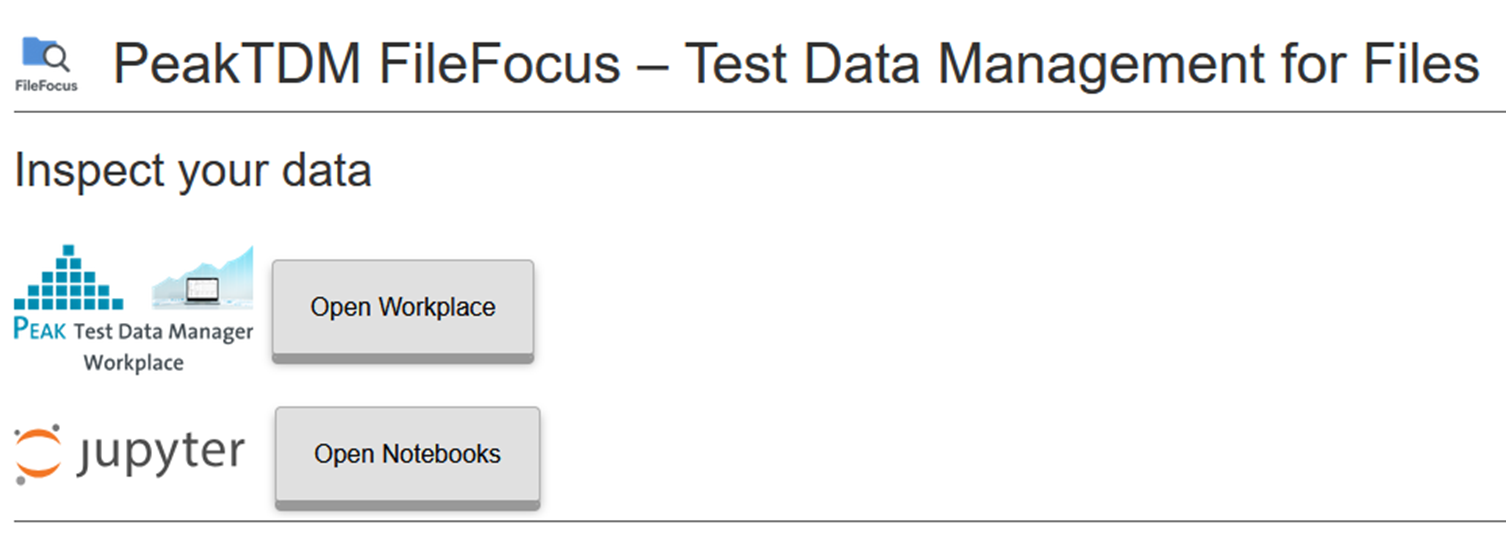
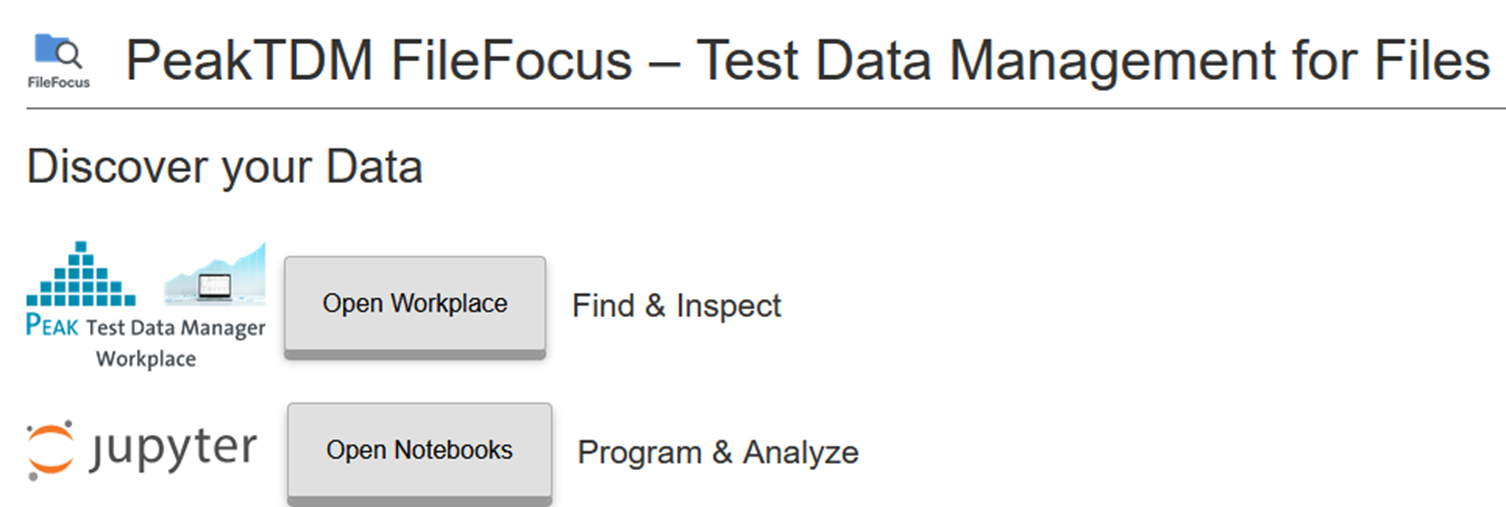
polish as of steak holder presentation

diff --git a/README.md b/README.md
@@ -8,11 +8,11 @@ Peak Test Data Manager (PeakTDM) **FileFocus** is the fastest way to transform y
 
 ## Quick Start Guide
 
-The guide helps you get started with _PeakTDM FileFocus_. 
+The guide helps you get started with *PeakTDM FileFocus*.
 
 ### Requirements
 
-_PeakTDM FileFocus_ is delivered as a Docker container and requires a working Docker runtime. 
+*PeakTDM FileFocus* is delivered as a Docker container and requires a working Docker runtime.
 On Windows, install Docker Desktop[^1].
 
 Log in to the Peak Solution Docker Image Repository[^2]:
@@ -23,9 +23,9 @@ docker login https://docker.peak-solution.de
 
 ℹ If Docker containers cannot be used in your organization, please [contact Peak Solution](https://www.peak-solution.de/contact.html) for alternatives.
 
-### Install and Start _PeakTDM FileFocus_
+### Install and Start *PeakTDM FileFocus*
 
-Clone or [download](https://github.com/peak-solution/filefocus/archive/refs/heads/main.zip) this repository. 
+Clone or [download](https://github.com/peak-solution/filefocus/archive/refs/heads/main.zip) this repository.
 If downloaded as a ZIP, extract the archive to a local folder.
 
 Open a terminal(cmd) and navigate to the repository folder and start the FileFocus environment:
@@ -34,17 +34,17 @@ Open a terminal(cmd) and navigate to the repository folder and start the FileFoc
 docker compose up -d
 ```
 
-Your _PeakTDM FileFocus_ instance is now up and running.
+Your *PeakTDM FileFocus* instance is now up and running.
 
 ## Usage and Examples
 
 ### Verify the installation
 
-By default _PeakTDM FileFocus_ runs on port 15000. 
+By default *PeakTDM FileFocus* runs on port 15000.
 
-Open: 
+Copy the following URL into your browser to access the *PeakTDM FileFocus* Web UI:
 
-👉 [http://localhost:15000](http://localhost:15000)
+👉 http://localhost:15000
 
 <img src="docs/images/FileFocus_Web_UI.png" alt="FileFocus WebUI" height="250" />
 
@@ -60,38 +60,42 @@ Add some **example files**:
 docker compose --profile examples up example-data
 docker compose --profile examples down example-data
 ```
+
 or copy your own data files to the `./datafolder` in your installation directory.
 
-### Configure _PeakTDM FileFocus_
+### Configure *PeakTDM FileFocus*
 
 Copy the `.env.example` file to `.env`, open it in a text editor and adjust the values according to your setup.
 
-Set the `DATAFOLDER` variable to the absolute path of your data files to index your specific file location. To apply the configuration settings, **restart** the PeakTDM FileFocus environment by executing the following commands:
+Set the `DATAFOLDER` variable to the absolute path of your data files to index your specific file location. To apply the configuration settings, **restart** the *PeakTDM FileFocus* environment by executing the following commands:
+
 ``` bash
 docker compose down -v
 ```
+
 and then
+
 ``` bash
 docker compose up -d
 ```
+
 ⚠ Note: Docker on Windows cannot use UNC paths directly - you need to use the cifs driver for network shares. See `.env.example` file for examples.
 
-### Import Your Own Data Files ###
+### Import Your Own Data Files
 
-_PeakTDM FileFocus_ can deal with almost any measurement file format. In case your file format is not supported yet, you can develop your own **ExD data plugin**.
+*PeakTDM FileFocus* can deal with almost any measurement file format. In case your file format is not supported yet, you can develop your own **ExD data plugin**.
 
 👉 Visit the [Data Management Learning Path](https://peak-solution.github.io/data_management_learning_path/exd_api/overview.html) for instructions and examples or [contact Peak Solution](https://www.peak-solution.de/contact.html).
 
 ### Python API
 
-Access your data programmatically via Python using [Peak ASAM ODSBox](https://peak-solution.github.io/odsbox/) - a thin wrapper around the _PeakTDM FileFocus_ HTTP(S)-APIs.
+Access your data programmatically via Python using [Peak ASAM ODSBox](https://peak-solution.github.io/odsbox/) - a thin wrapper around the *PeakTDM FileFocus* HTTP(S)-APIs.
 
-👉 Find more Python examples in the [Data Management Learning Path](https://peak-solution.github.io/data_management_learning_path/.) 
-
+👉 Find more Python examples in the [Data Management Learning Path](https://peak-solution.github.io/data_management_learning_path/.)
 
 ## Licensing
 
-Running _PeakTDM FileFocus_ requires a valid license issued by Peak Solution. 
+Running *PeakTDM FileFocus* requires a valid license issued by Peak Solution.
 
 Copy your license file into the `.\license` folder of your installation.
 
@@ -99,24 +103,25 @@ Need an **evaluation license**:
 
 👉 [Contact Peak Solution](https://www.peak-solution.de/contact.html).
 
-
 ## Roadmap
 
 As the fastest way to turn test & measurement files into AI‑ready data,
-we are actively exploring the use of PeakTDM data with **agentic AI frameworks**. 
+we are actively exploring the use of PeakTDM data with **agentic AI frameworks**.
 
 👉 [Read the blog](https://www.peak-solution.de/testdatamanagement/test-and-measurement-data-management-in-the-age-of-ai.html#a12690) or [contact Peak Solution](https://www.peak-solution.de/contact.html) to learn how your data can be used with Github Copilot and other agentic tools.
 
 ## Contact
 
-For questions about _PeakTDM FileFocus_ or other Peak Solution products feel free to 
+For questions about *PeakTDM FileFocus* or other Peak Solution products feel free to
 
-👉 [Reach out to Peak Solution](https://www.peak-solution.de/contact.html) 
+👉 [Reach out to Peak Solution](https://www.peak-solution.de/contact.html)
 
+Explore the *PeakTDM FileFocus* website for more information:
+
+👉 [PeakTDM FileFocus](https://www.peak-solution.de/products/testdatamanagement/filefocus.html)
 
 ## Footnotes
 
 [^1]: You can find the Docker Desktop installation instructions on the official Docker web site: [Get Docker Documentation](https://docs.docker.com/get-docker/)
-
 
 [^2]: You need login credentials for the Peak Solution Docker Image Repository. In case you don't have them, please [contact Peak Solution](https://www.peak-solution.de/contact.html)

diff --git a/license/README.md b/license/README.md
@@ -2,3 +2,5 @@
 
 Put your license file `PeakODSServerNonFloating.l4j` here.
 The license file is ignored by git, so it won't be published on GitHub.
+
+In case you don't have a valid license, please [contact Peak Solution](https://www.peak-solution.de/contact.html).
